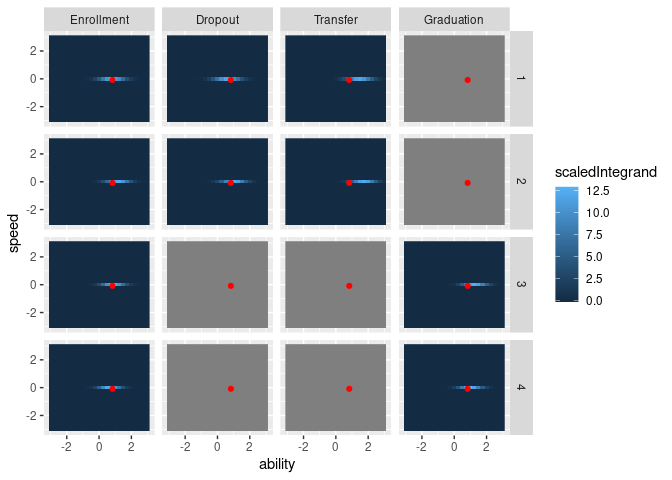
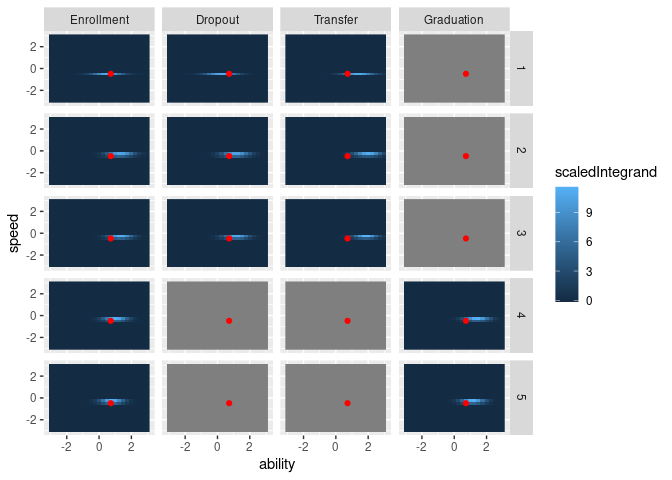
change example speed sd

diff --git a/README.md b/README.md
@@ -67,6 +67,7 @@ params_list <- paramsVec2list(THETA = theta,
 # here you can manually change parameters (chek the list names)
 # I do that just to simulate reasonable data
 params_list[['LAT']][['Corr']] <- .5
+params_list[['LAT']][['Speed_variability']] <- 1.5
 params_list[['IRT']][['Exams_average_time']] <- sapply(sort(rep(1:6, (round(exams/6)+1)))[1:exams], function(x) log(x*180))
 params_list[['IRT']][['Exams_variability_time']] <- runif(exams, 2,10)
 
@@ -115,7 +116,7 @@ times_vec <- rngTimes(
 ## Read the year of the last exam
 yle <- round(max(times_vec)/365,0)
 yle
-#> [1] 3
+#> [1] 4
 ```
 
 Finally, we can plot the integrand function for each outcome and year
